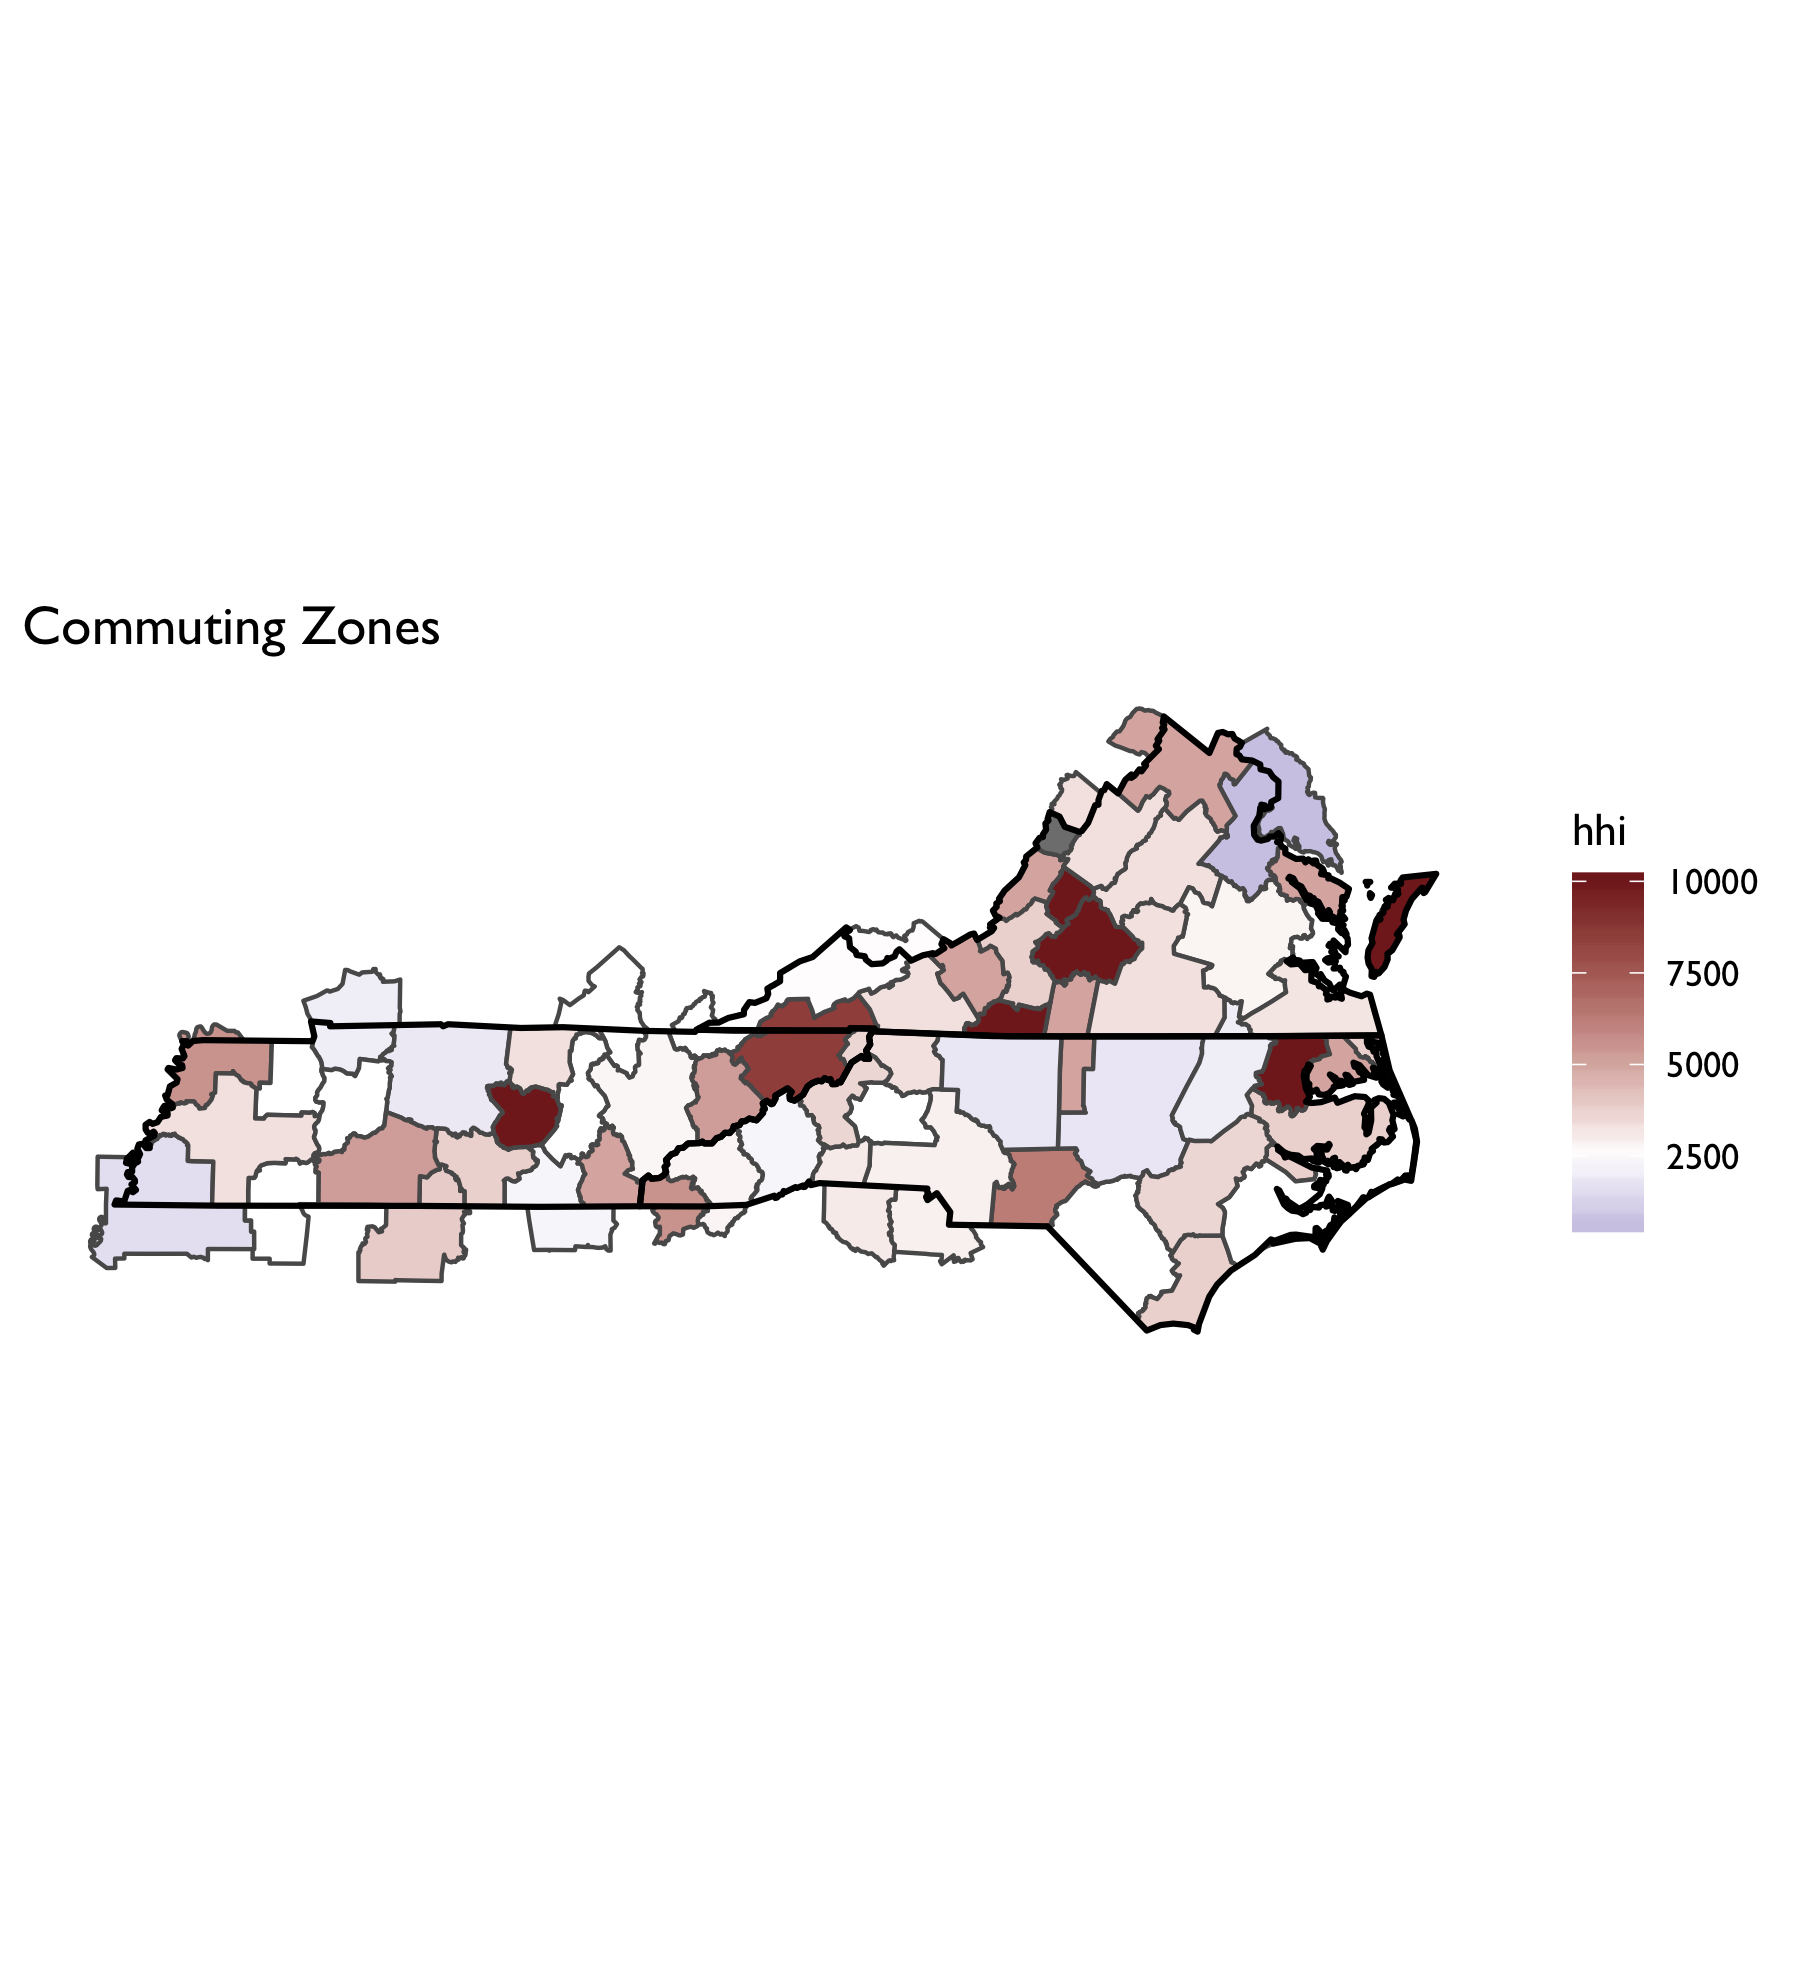
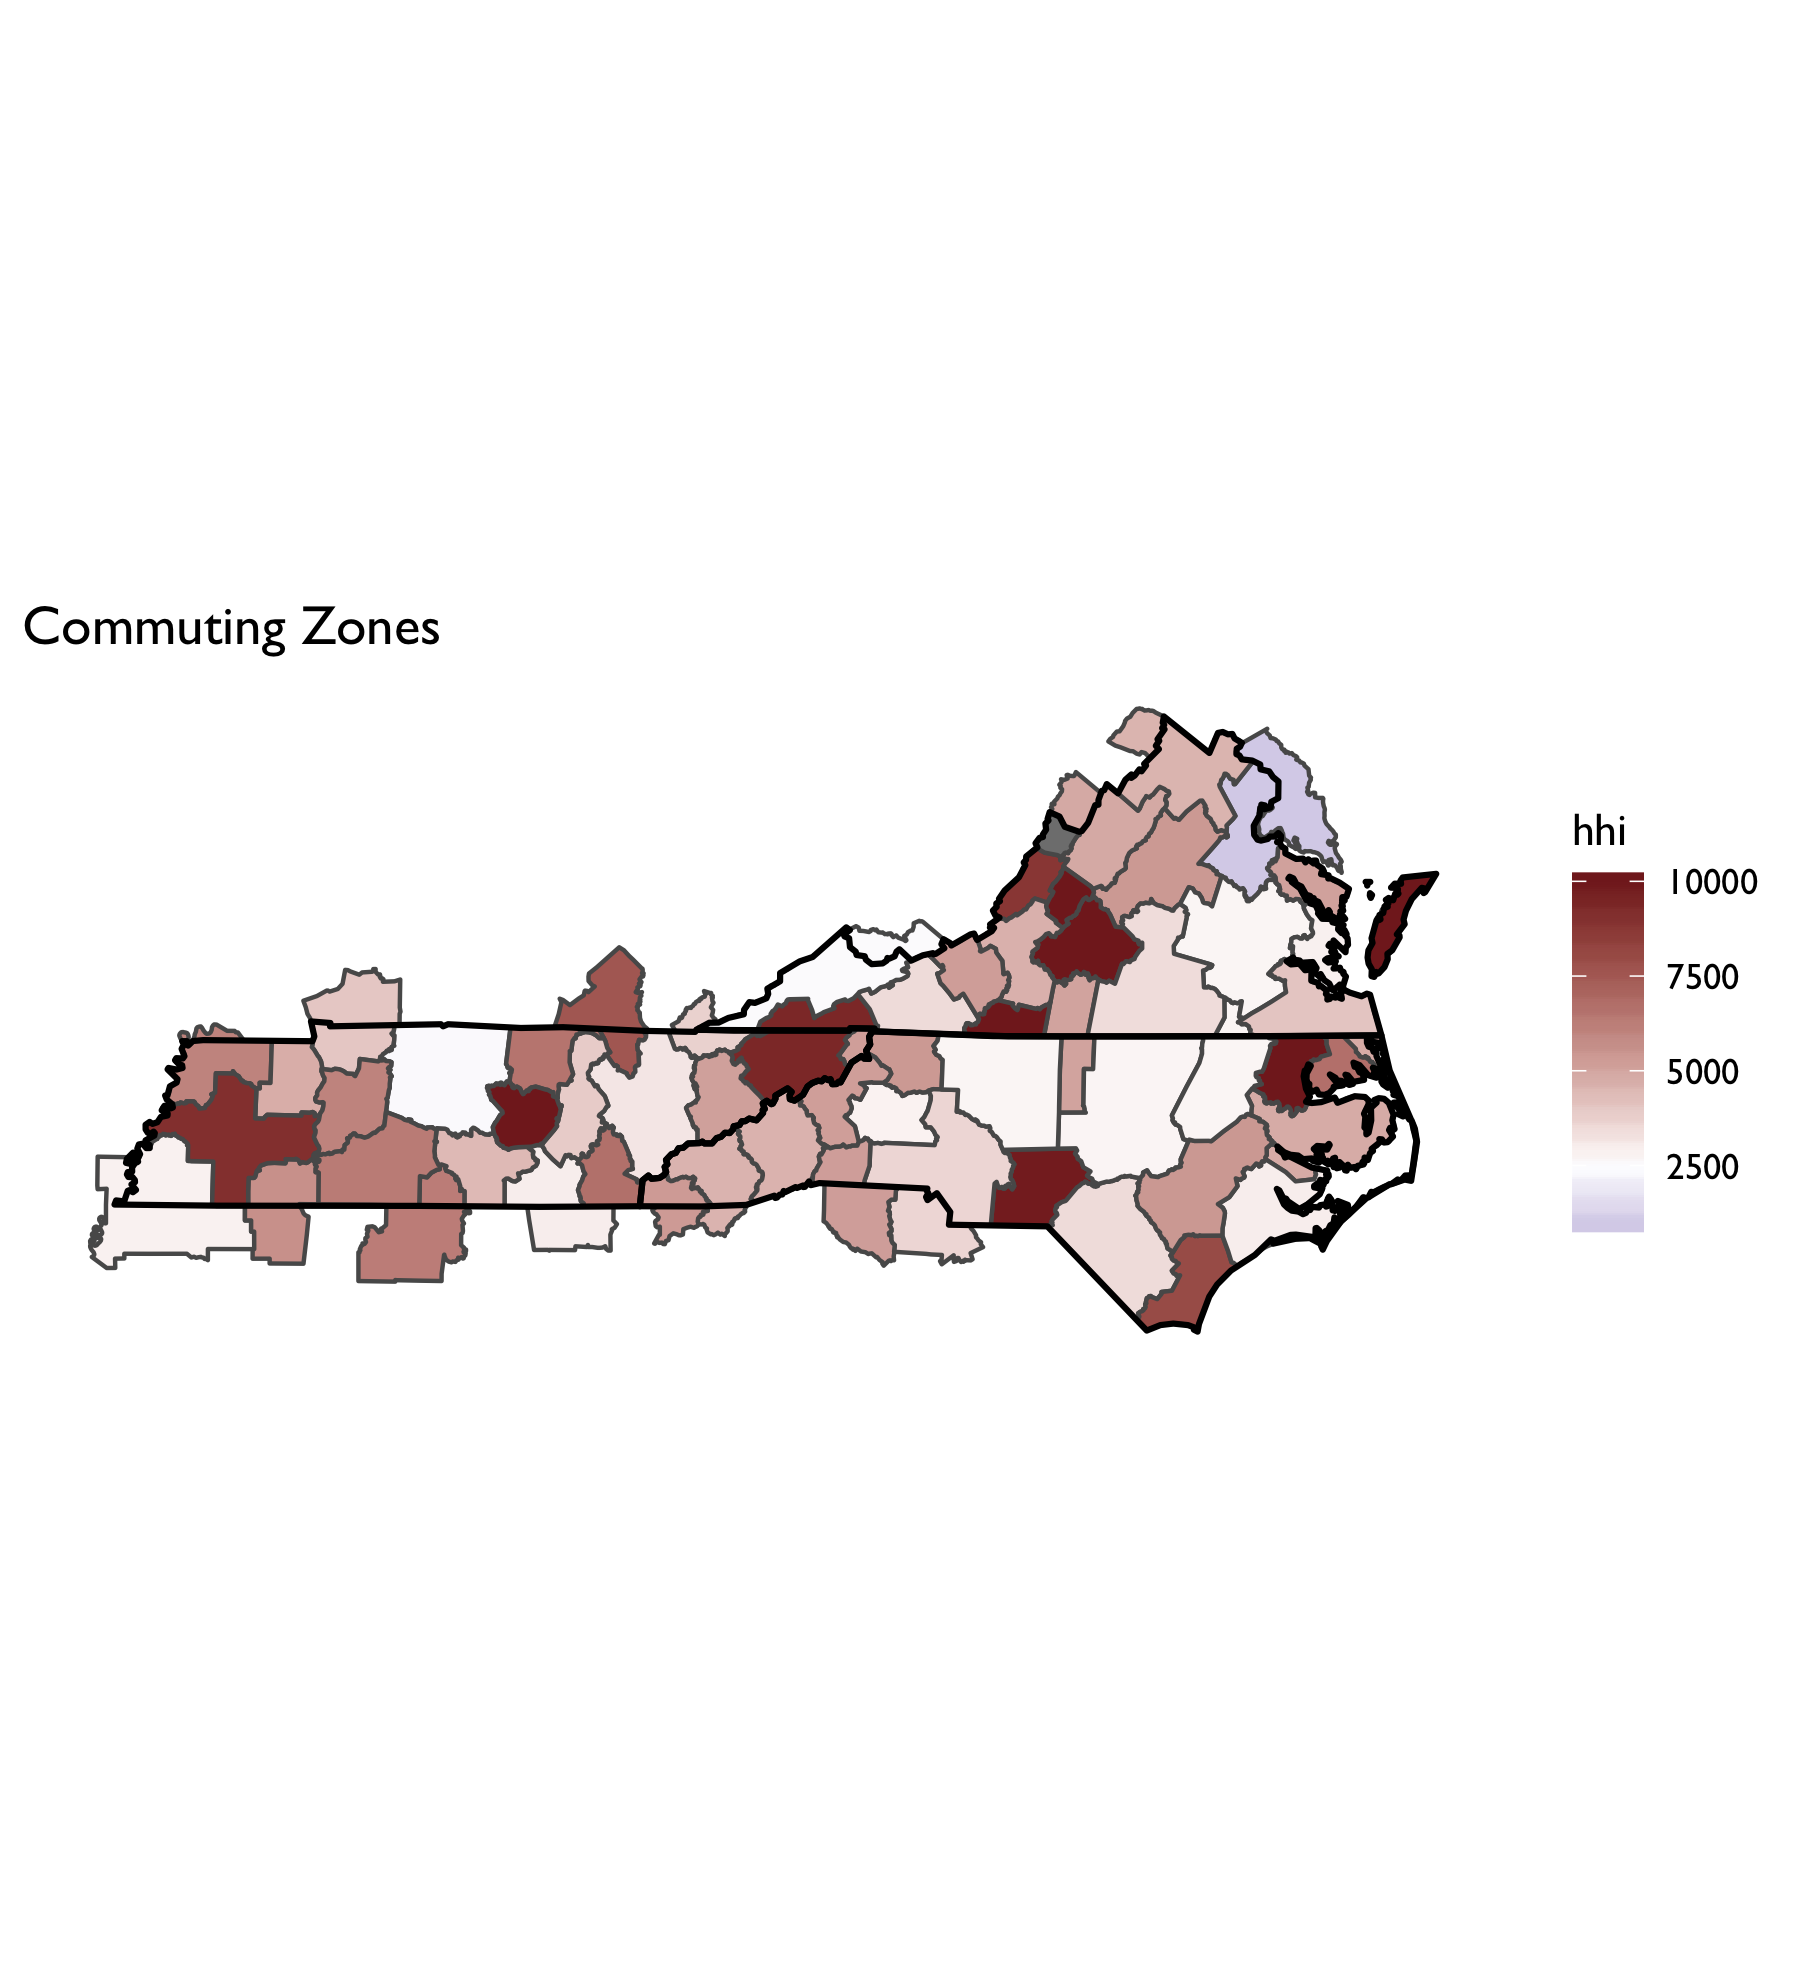
updates to HHI code and switch to admission-weighted hospital HHI measures.

diff --git a/README.md b/README.md
@@ -212,17 +212,27 @@ U.S. Department of Agriculture (USDA) is useful:
 
 # How Do HHI Measures Compare Across Geographic Market Defintions?
 
+For this exercise we will construct HHI measures of hopsital
+concentration across the geographic market definitions covered above.
+Not all of these will make sense (e.g., it seems odd to construct a
+Hospital HHI measure based on PCSAs) but I will construct the measures
+anyway for the sake of comparisons.
+
+For these plots the HHI measure is constructed using admission-weighted
+market shares for hospitals within each geographic market. The hosptial
+data are drawn from the 2017 AHA annual survey.
+
 ![](figs/01_HHI_commuting-zones.png)
 
 ![](figs/01_HHI_hrr.png)
 
 ![](figs/01_HHI_rating-area.png)
 
-For this exercise we will construct measures of hopsital concentration
-across the geographic market definitions covered above. Not all of these
-will make sense (e.g., it seems odd to construct a Hospital HHI measure
-based on PCSAs) but I will construct the measures anyway for the sake of
-comparisons.
+![](figs/01_HHI-HRR-vs-commuting-zones.png)
+
+![](figs/01_HHI-HRR-vs-rating-areas.png)
+
+![](figs/01_HHI-commuting-zones-vs-rating-areas.png)
 
 # Novel Market Definitions
 
